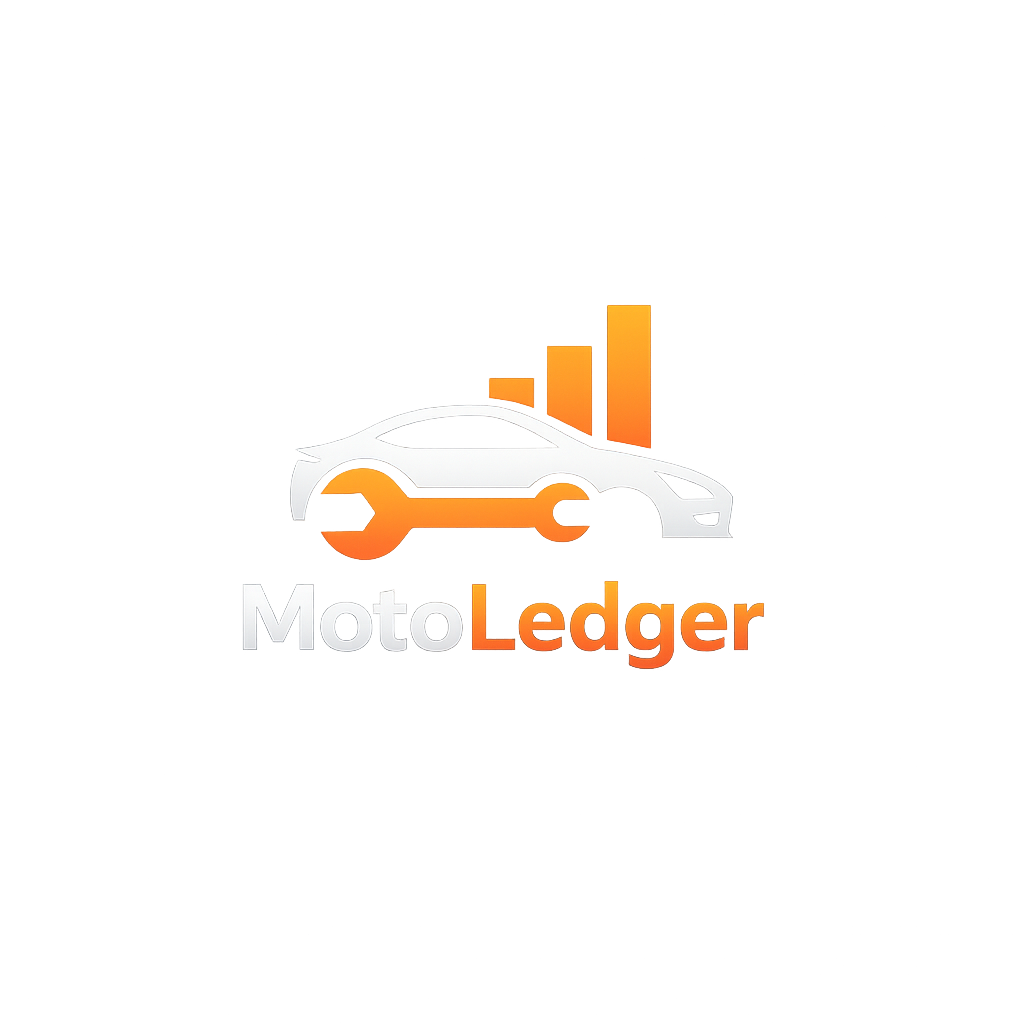
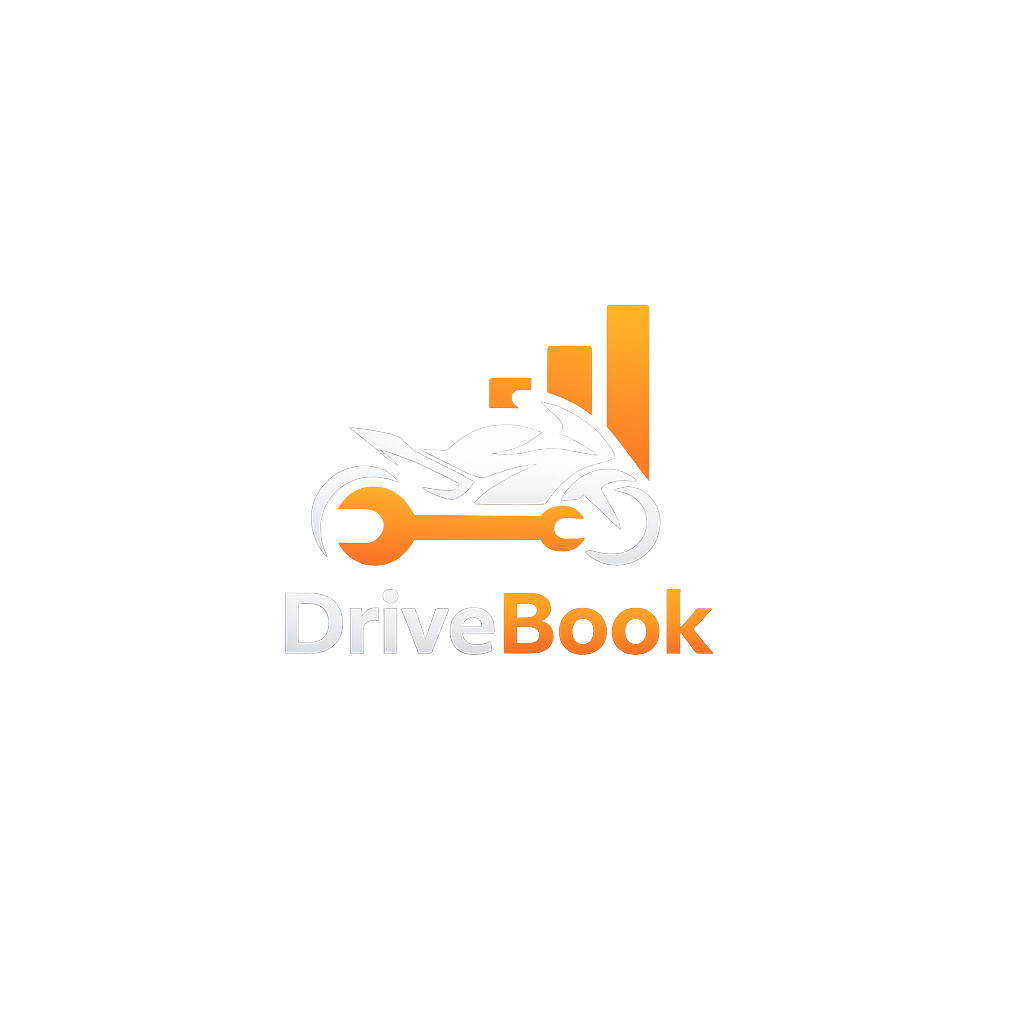
refactor: simplify database query parameter passing across repositories and configure EAS build and splash screen settings.

Changed region(s): [[0.2188, 0.375, 0.75, 0.6562], [0.625, 0.5, 0.7188, 0.5312]]

diff --git a/src/repositories/ReminderRepository.ts b/src/repositories/ReminderRepository.ts
@@ -7,7 +7,7 @@ export class ReminderRepository {
     await db.runAsync(
       `INSERT INTO reminders (id, vehicleId, title, dueDate, reminderType, notes) 
        VALUES (?, ?, ?, ?, ?, ?)`,
-      [
+      ...[
         reminder.id,
         reminder.vehicleId,
         reminder.title,
@@ -24,7 +24,7 @@ export class ReminderRepository {
       `UPDATE reminders 
        SET title = ?, dueDate = ?, reminderType = ?, notes = ?
        WHERE id = ?`,
-      [
+      ...[
         reminder.title,
         reminder.dueDate,
         reminder.reminderType,
@@ -36,14 +36,14 @@ export class ReminderRepository {
 
   static async deleteReminder(id: string): Promise<void> {
     const db = getDatabase();
-    await db.runAsync('DELETE FROM reminders WHERE id = ?', [id]);
+    await db.runAsync('DELETE FROM reminders WHERE id = ?', id);
   }
 
   static async getRemindersByVehicle(vehicleId: string): Promise<Reminder[]> {
     const db = getDatabase();
     return await db.getAllAsync<Reminder>(
       'SELECT * FROM reminders WHERE vehicleId = ? ORDER BY dueDate ASC',
-      [vehicleId]
+      vehicleId
     );
   }
 
@@ -52,7 +52,9 @@ export class ReminderRepository {
     const today = new Date().toISOString().split('T')[0];
     return await db.getAllAsync<Reminder>(
       'SELECT * FROM reminders WHERE vehicleId = ? AND dueDate >= ? ORDER BY dueDate ASC LIMIT ?',
-      [vehicleId, today, limit]
+      vehicleId,
+      today,
+      limit
     );
   }
 }

diff --git a/src/repositories/FuelRepository.ts b/src/repositories/FuelRepository.ts
@@ -7,7 +7,7 @@ export class FuelRepository {
     await db.runAsync(
       `INSERT INTO fuel_logs (id, vehicleId, date, odometer, fuelAmountLitres, totalCost, fuelType, attachmentUri, notes) 
        VALUES (?, ?, ?, ?, ?, ?, ?, ?, ?)`,
-      [
+      ...[
         log.id,
         log.vehicleId,
         log.date,
@@ -27,7 +27,7 @@ export class FuelRepository {
       `UPDATE fuel_logs 
        SET date = ?, odometer = ?, fuelAmountLitres = ?, totalCost = ?, fuelType = ?, attachmentUri = ?, notes = ?
        WHERE id = ?`,
-      [
+      ...[
         log.date,
         log.odometer,
         log.fuelAmountLitres,
@@ -42,14 +42,14 @@ export class FuelRepository {
 
   static async deleteFuelLog(id: string): Promise<void> {
     const db = getDatabase();
-    await db.runAsync('DELETE FROM fuel_logs WHERE id = ?', [id]);
+    await db.runAsync('DELETE FROM fuel_logs WHERE id = ?', id);
   }
 
   static async getFuelLogsByVehicle(vehicleId: string): Promise<FuelLog[]> {
     const db = getDatabase();
     return await db.getAllAsync<FuelLog>(
       'SELECT * FROM fuel_logs WHERE vehicleId = ? ORDER BY date DESC',
-      [vehicleId]
+      vehicleId
     );
   }
 
@@ -57,7 +57,7 @@ export class FuelRepository {
     const db = getDatabase();
     const result = await db.getFirstAsync<{ total: number }>(
       'SELECT SUM(totalCost) as total FROM fuel_logs WHERE vehicleId = ?',
-      [vehicleId]
+      vehicleId
     );
     return result?.total || 0;
   }

diff --git a/src/repositories/ServiceRepository.ts b/src/repositories/ServiceRepository.ts
@@ -7,7 +7,7 @@ export class ServiceRepository {
     await db.runAsync(
       `INSERT INTO service_records (id, vehicleId, date, odometer, serviceType, cost, attachmentUri, notes) 
        VALUES (?, ?, ?, ?, ?, ?, ?, ?)`,
-      [
+      ...[
         record.id,
         record.vehicleId,
         record.date,
@@ -26,7 +26,7 @@ export class ServiceRepository {
       `UPDATE service_records 
        SET date = ?, odometer = ?, serviceType = ?, cost = ?, attachmentUri = ?, notes = ?
        WHERE id = ?`,
-      [
+      ...[
         record.date,
         record.odometer,
         record.serviceType,
@@ -40,14 +40,14 @@ export class ServiceRepository {
 
   static async deleteServiceRecord(id: string): Promise<void> {
     const db = getDatabase();
-    await db.runAsync('DELETE FROM service_records WHERE id = ?', [id]);
+    await db.runAsync('DELETE FROM service_records WHERE id = ?', id);
   }
 
   static async getServiceRecordsByVehicle(vehicleId: string): Promise<ServiceRecord[]> {
     const db = getDatabase();
     return await db.getAllAsync<ServiceRecord>(
       'SELECT * FROM service_records WHERE vehicleId = ? ORDER BY date DESC',
-      [vehicleId]
+      vehicleId
     );
   }
 
@@ -55,7 +55,7 @@ export class ServiceRepository {
     const db = getDatabase();
     const result = await db.getFirstAsync<{ total: number }>(
       'SELECT SUM(cost) as total FROM service_records WHERE vehicleId = ?',
-      [vehicleId]
+      vehicleId
     );
     return result?.total || 0;
   }

diff --git a/src/repositories/VehicleRepository.ts b/src/repositories/VehicleRepository.ts
@@ -7,7 +7,7 @@ export class VehicleRepository {
     await db.runAsync(
       `INSERT INTO vehicles (id, name, registrationNumber, vehicleType, brand, model, purchaseDate, currentOdometer, notes) 
        VALUES (?, ?, ?, ?, ?, ?, ?, ?, ?)`,
-      [
+      ...[
         vehicle.id,
         vehicle.name,
         vehicle.registrationNumber,
@@ -33,7 +33,7 @@ export class VehicleRepository {
       `UPDATE vehicles 
        SET name = ?, registrationNumber = ?, vehicleType = ?, brand = ?, model = ?, purchaseDate = ?, currentOdometer = ?, notes = ?
        WHERE id = ?`,
-      [
+      ...[
         vehicle.name,
         vehicle.registrationNumber,
         vehicle.vehicleType,
@@ -49,6 +49,6 @@ export class VehicleRepository {
 
   static async deleteVehicle(id: string): Promise<void> {
     const db = getDatabase();
-    await db.runAsync('DELETE FROM vehicles WHERE id = ?', [id]);
+    await db.runAsync('DELETE FROM vehicles WHERE id = ?', id);
   }
 }